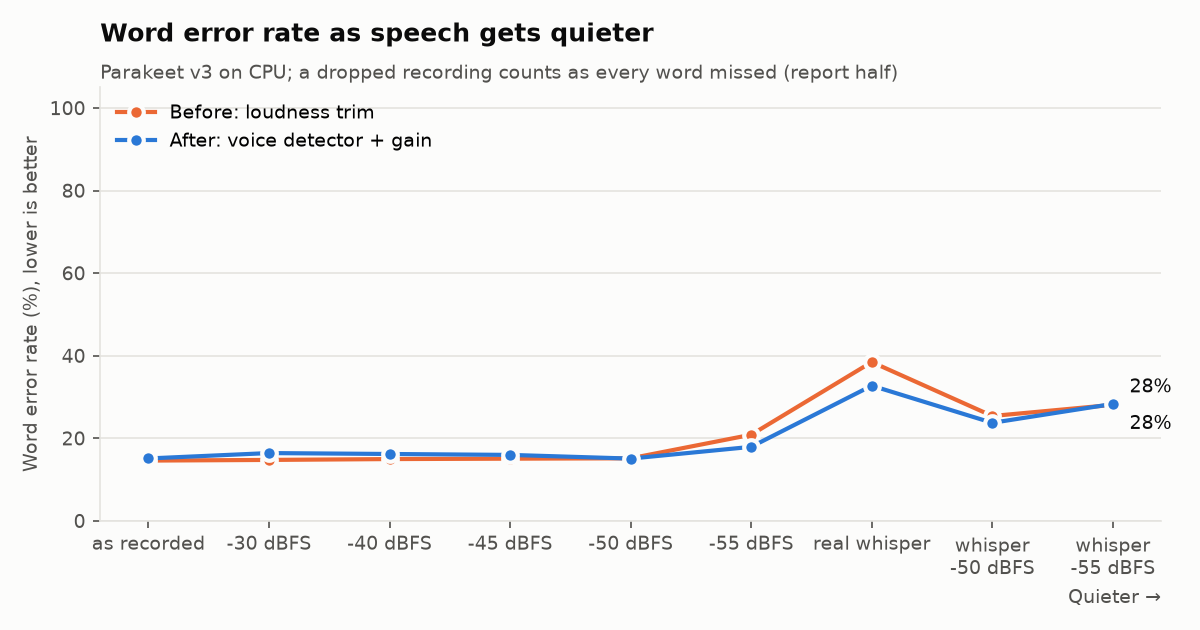
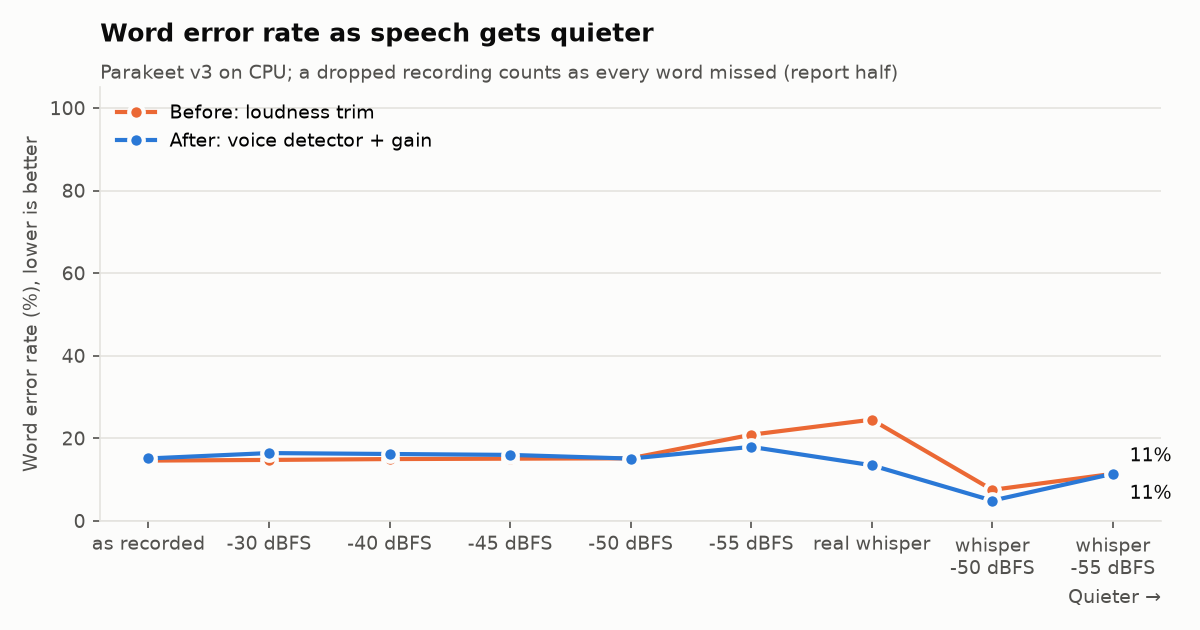
Split the quiet-speech study by original recording and score only matching transcripts
EARS takes were cut into halves that landed on opposite sides of the split and were scored against the whole take's transcript. Pieces of one take now stay together, and those clips count for detection but not for word error rate. Figures and charts are recomputed from the same per-clip results; the chosen thresholds are unchanged.

Changed region(s): [[0.6167, 0.573, 0.9867, 0.8143]]

diff --git a/bench/quiet_report.py b/bench/quiet_report.py
@@ -1,15 +1,20 @@
 """Summarise and chart a `speechify-bench quiet` run.
 
-    uv run --with matplotlib python -I bench/quiet_report.py RESULTS.jsonl OUT_DIR
+    uv run --with matplotlib python -I bench/quiet_report.py RESULTS.jsonl OUT_DIR MANIFEST.json
 
-Reads only the JSON lines the bench wrote. The detector threshold is judged
-on the "dev" half of the clips; every headline number and chart uses the
-other ("report") half, so the threshold was not tuned on what is reported.
+Reads the JSON lines the bench wrote and the clip manifest. Recordings are
+split into a "dev" half, on which thresholds are judged, and a "report" half
+that every headline number and chart uses. The split is by original
+recording: every piece, level and noise variant of one recording lands on
+the same side. Clips whose reference transcript does not match their audio
+(halves of an EARS take carry the whole take's text) count for detection but
+are left out of word error rate.
 Writes summary.json, summary.md and four PNG charts to OUT_DIR.
 """
 
 import json
 import pathlib
+import re
 import statistics
 import sys
 
@@ -62,10 +67,30 @@ def tick(key):
     return key
 
 
+def origin(family):
+    """The original recording a clip came from: EARS takes were cut into parts."""
+    return re.sub(r"_part\d+$", "", family)
+
+
+def split(key):
+    """Same 64-bit FNV-1a rule as bench/src/quiet.rs."""
+    value = 0xCBF29CE484222325
+    for byte in key.encode():
+        value = ((value ^ byte) * 0x100000001B3) % (1 << 64)
+    return "dev" if value % 2 == 0 else "report"
+
+
 def main():
-    results, out = pathlib.Path(sys.argv[1]), pathlib.Path(sys.argv[2])
+    results, out, manifest = (pathlib.Path(arg) for arg in sys.argv[1:4])
     out.mkdir(parents=True, exist_ok=True)
     rows = [json.loads(line) for line in results.read_text().splitlines() if line.strip()]
+    clips = {clip["id"]: clip for clip in json.loads(manifest.read_text())}
+    for row in rows:
+        clip = clips[row["id"]]
+        row["split"] = split(origin(clip.get("family") or clip["id"]))
+        if clip.get("source", "").startswith("EARS"):
+            for key in ("old", "new"):
+                row[key].pop("wer", None)
     dev = [r for r in rows if r["split"] == "dev"]
     report = [r for r in rows if r["split"] == "report"]
     speech = [r for r in report if r["label"] == "speech"]
@@ -115,6 +140,7 @@ def main():
         for k, v in sorted(kinds.items())
     }
     summary = {
+        "wer_excluded": sorted({r["id"] for r in rows if r["label"] == "speech" and "wer" not in r["new"]}),
         "clips": len(rows),
         "dev_clips": len(dev),
         "report_clips": len(report),

diff --git a/bench/src/quiet.rs b/bench/src/quiet.rs
@@ -64,8 +64,13 @@ fn ms(since: Instant) -> f64 {
     since.elapsed().as_secs_f64() * 1000.0
 }
 
-/// Stable development/report split, independent of clip order.
-fn split(id: &str) -> &'static str {
+/// Stable development/report split, independent of clip order, by original
+/// recording: parts cut from one take ("..._part1", "..._part2") stay together.
+fn split(family: &str) -> &'static str {
+    let id = family
+        .rsplit_once("_part")
+        .filter(|(_, n)| n.bytes().all(|b| b.is_ascii_digit()))
+        .map_or(family, |(stem, _)| stem);
     let hash = id.bytes().fold(0xcbf2_9ce4_8422_2325u64, |h, b| {
         (h ^ b as u64).wrapping_mul(0x100_0000_01b3)
     });

diff --git a/docs/evaluation.md b/docs/evaluation.md
@@ -761,20 +761,31 @@ audio is used for evaluation only and is not in this repository.
 runs the old loudness trim and the app's own `asr::isolate` on every clip, and
 Parakeet TDT 0.6B v3 on CPU on what each keeps. Word error rate counts a dropped
 recording as every word missed. Recordings are split into a development half and
-a report half by source recording (all levels of one recording on the same
-side). Thresholds were chosen on the development half; every number and chart
-below is from the report half. `bench/quiet_report.py` makes the tables and
-charts.
+a report half by original recording: every piece, level and noise variant of one
+recording is on the same side. Thresholds were chosen on the development half;
+every number and chart below is from the report half.
+`bench/quiet_report.py RESULTS OUT MANIFEST` makes the tables and charts.
 
-### Results (report half: 232 speech, 290 non-speech recordings)
+The EARS whispers are halves of longer takes, but the corpus mirror gives only
+the whole take's transcript. Those 62 clips count towards "kept" but are left
+out of word error rate, which would otherwise charge words that are not in the
+audio as recognition errors.
+
+*Correction, 13 November:* the first version of this section split EARS
+halves of one take onto opposite sides and scored them against whole-take
+transcripts (both found in review). The tables below are recomputed from the
+same per-clip results with the split and scoring fixed. The thresholds still
+come out the same on the corrected development half.
+
+### Results (report half: 239 speech, 290 non-speech recordings)
 
 | | Loudness trim (before) | Detector + gain (after) |
 |---|---:|---:|
 | Speech kept | 98.7% | **100%** |
-| Word error rate, all speech | 21.4% | **20.3%** |
-| Real whispers kept | 93.3% | **100%** |
-| Word error rate, real whispers | 38.5% | **32.7%** |
-| Word error rate, whispers at -50 / -55 dBFS | 25.4% / 28.1% | 23.7% / 28.3% |
+| Word error rate, all scored speech | 16.6% | **15.3%** |
+| Real whispers kept | 93.8% | **100%** |
+| Word error rate, real whispers | 24.5% | **13.5%** |
+| Word error rate, whispers at -50 / -55 dBFS | 7.5% / 11.4% | **4.9%** / 11.4% |
 | Non-speech wrongly passed to the recogniser | 71.0% | **41.7%** |
 | Detector time per recording (median, CPU) | — | 17 ms |
 
@@ -788,10 +799,10 @@ charts.
 
 | Report half | Speech kept | Real whispers kept | WER real whispers | WER whispers -55 dBFS | Non-speech kept |
 |---|---:|---:|---:|---:|---:|
-| Loudness trim (before) | 98.7% | 93.3% | 38.5% | 28.1% | 71.0% |
-| 1. Detector cut only | 97.4% | 95.6% | 46.0% | 57.1% | 15.5% |
-| 2. Cut widened to the loudness span | 97.4% | 95.6% | 37.2% | 44.7% | 15.5% |
-| 3. Plus a second look at 0.15 (shipped) | 100% | 100% | 32.7% | 28.3% | 41.7% |
+| Loudness trim (before) | 98.7% | 93.8% | 24.5% | 11.4% | 71.0% |
+| 1. Detector cut only | 97.5% | 95.8% | 32.3% | 47.5% | 15.5% |
+| 2. Cut widened to the loudness span | 97.5% | 95.8% | 21.8% | 37.1% | 15.5% |
+| 3. Plus a second look at 0.15 (shipped) | 100% | 100% | 13.5% | 11.4% | 41.7% |
 
 The first attempt rejected far more noise but made whispers worse: the detector
 is least sure at the soft start and end of a whisper and cut words there
@@ -811,3 +822,5 @@ second look trades some noise rejection for never losing them.
   development half. It is not a consistent cost, but it is not a gain either.
 - These are CPU numbers with Parakeet. Whisper turbo on a graphics card, and a
   real office laptop microphone, were not measured.
+- Whisper accuracy at -50 and -55 dBFS rests on 13 Expresso clips per level
+  (the EARS ones are excluded from scoring); treat it as indicative.
